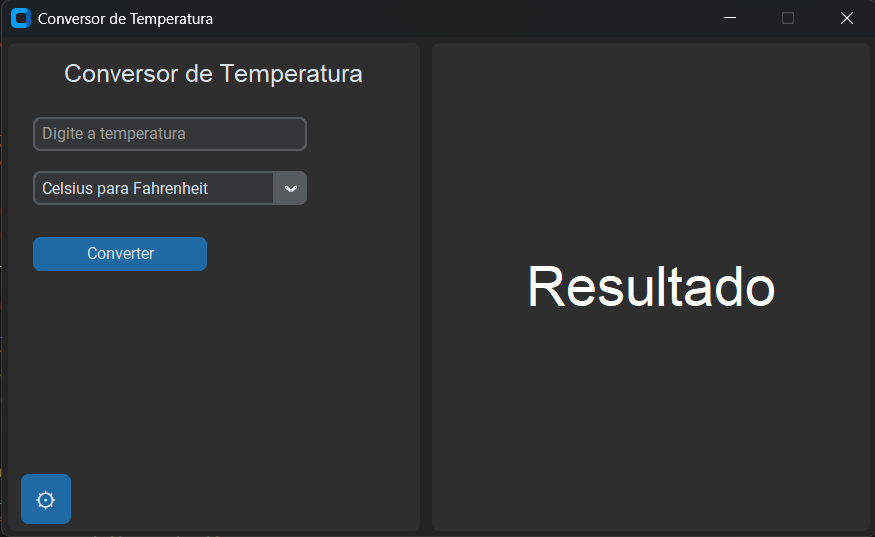
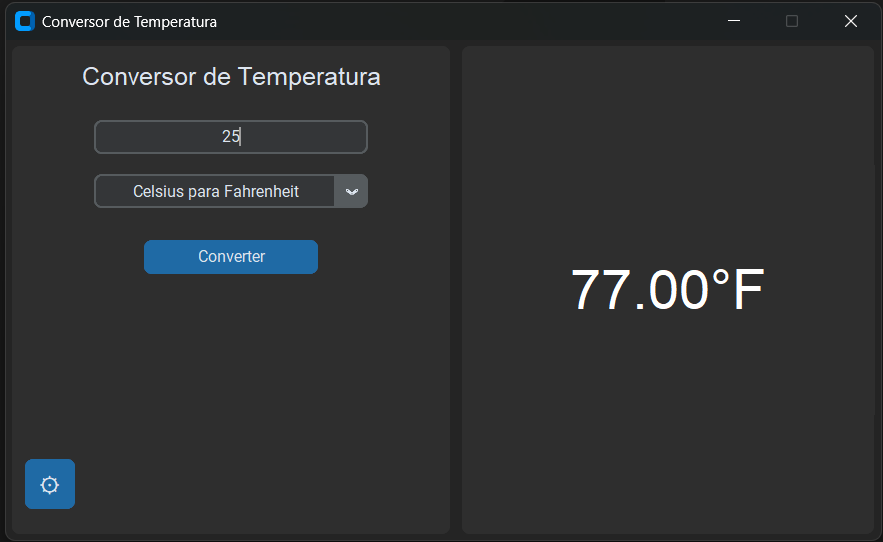
updates

diff --git a/main.py b/main.py
@@ -57,24 +57,40 @@ frame_direito = ctk.CTkFrame(app, width=350, height=400)
 frame_esquerdo.pack(side="left", fill="both", expand=True, padx=5, pady=5)
 frame_direito.pack(side="right", fill="both", expand=True, padx=5, pady=5)
 
-label_titulo = ctk.CTkLabel(frame_esquerdo, text="Conversor de Temperatura", font=("Arial", 20), anchor="center")
-label_titulo.pack(pady=10, padx=20, anchor="center")
-largura_input = 220
-entrada_temp = ctk.CTkEntry(frame_esquerdo, placeholder_text="Digite a temperatura", width=largura_input)
-resultado = StringVar(value="Resultado")
-menu_opcoes = ctk.CTkComboBox(frame_esquerdo, values=["Celsius para Fahrenheit", "Fahrenheit para Celsius"], state="readonly", width=largura_input)
+# Frame interno centralizador
+frame_conteudo_esquerdo = ctk.CTkFrame(frame_esquerdo, fg_color="transparent")
+frame_conteudo_esquerdo.place(relx=0.5, rely=0.0, anchor="n")
 
-# Define uma opção padrão no ComboBox
+
+largura_input = 220
+entrada_temp = ctk.CTkEntry(
+    frame_conteudo_esquerdo,
+    placeholder_text="Digite a temperatura",
+    width=largura_input,
+    justify="center"
+)
+
+resultado = StringVar(value="Resultado")
+
+menu_opcoes = ctk.CTkComboBox(
+    frame_conteudo_esquerdo,
+    values=["Celsius para Fahrenheit", "Fahrenheit para Celsius"],
+    state="readonly",
+    width=largura_input,
+    justify="center"
+)
 menu_opcoes.set("Celsius para Fahrenheit")
 
-entrada_temp.pack(pady=10, padx=20, anchor="w")
-menu_opcoes.pack(pady=5, padx=20, anchor="w")
-ctk.CTkButton(frame_esquerdo, text="Converter", command=converter_temperatura).pack(pady=20, padx=20, anchor="w")
+label_titulo = ctk.CTkLabel(frame_conteudo_esquerdo, text="Conversor de Temperatura", font=("Arial", 20))
+label_titulo.pack(pady=10)
+entrada_temp.pack(pady=10)
+menu_opcoes.pack(pady=5)
+ctk.CTkButton(frame_conteudo_esquerdo, text="Converter", command=converter_temperatura).pack(pady=20)
 
 botao_tema = ctk.CTkButton(frame_esquerdo, text="⚙", command=alternar_tema, width=40, height=40, font=("Segoe UI Symbol", 20))
-botao_tema.place(x=10, y=345)
+botao_tema.place(x=10, y=330)
 
-label_resultado = ctk.CTkLabel(frame_direito, textvariable=resultado, font=("Arial", 45), anchor="center", width=300, height=200)
+label_resultado = ctk.CTkLabel(frame_direito, textvariable=resultado, font=("Arial", 45), anchor="center", width=350, height=200)
 label_resultado.place(relx=0.5, rely=0.5, anchor="center")
 label_resultado.pack(expand=True)
 
